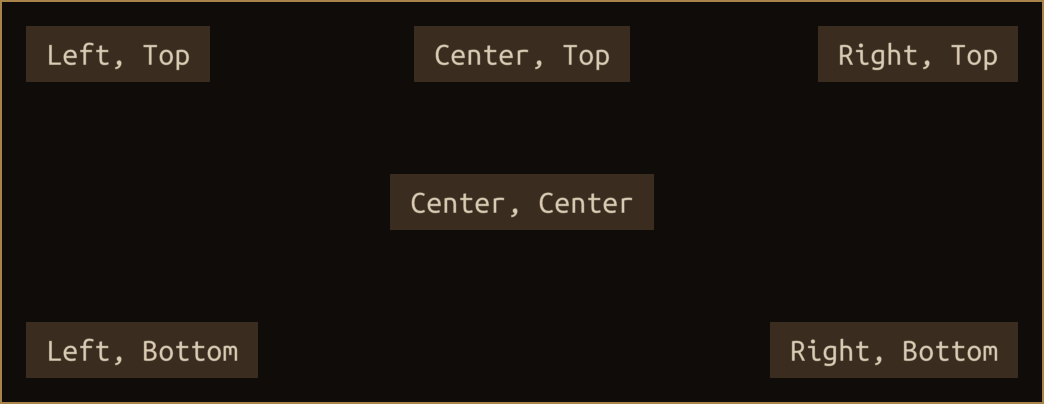
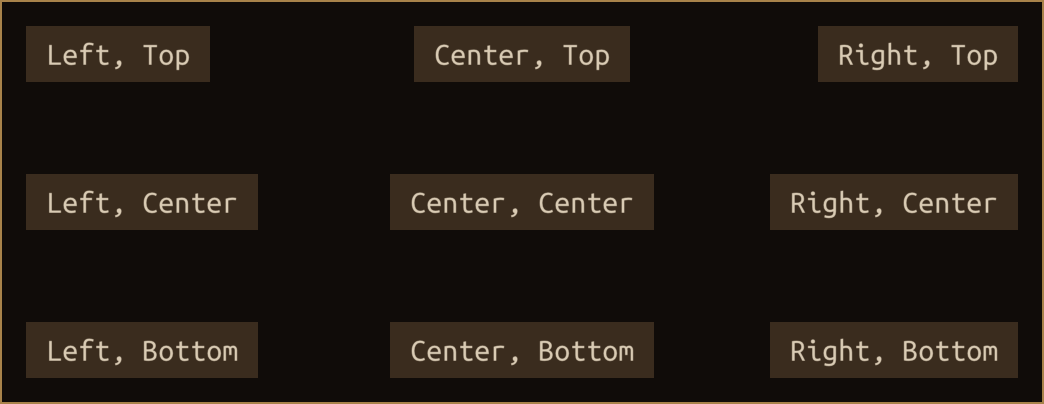
Indent sidebar sections under their page, show all nine alignments
A page's sections and an entry's members start right of their page's
link, so a highlighted one no longer looks a level above it. The
alignment example adds Left, Center; Right, Center; and Center, Bottom.

Changed region(s): [[0.3678, 0.7723, 0.6437, 0.9505], [0.7356, 0.4158, 0.9808, 0.5941], [0.0, 0.4158, 0.2452, 0.5941]]

diff --git a/assets/css/site.css b/assets/css/site.css
@@ -325,6 +325,9 @@ a.card:hover { border-color: var(--line-strong); background: var(--surface-2); c
 /* the sections of a page, its ## headings (see _includes/docs-sections.html), like a book's contents */
 .docs-sections a { padding-top: 4px; padding-bottom: 4px; font-size: .85rem; }
 .docs-sections a[aria-current="location"] { color: var(--gold); border-left-color: var(--gold); background: rgba(233, 194, 122, .06); }
+/* a page's sections and an entry's members start right of their page's link, whose bar follows the caret: a
+   highlighted one never looks a level above its page (the tree's line stays under the caret) */
+.docs-node > ul.docs-sections > li > a, .docs-node > ul.docs-members > li > a { margin-left: 14px; padding-left: 10px; }
 /* a sidebar taller than the window scrolls on its own */
 @media (min-width: 861px) {
   .docs-groups { max-height: calc(100vh - var(--header-h) - 48px); overflow-y: auto; scrollbar-width: thin; scrollbar-color: var(--line-strong) transparent; }

diff --git a/docs/ui.md b/docs/ui.md
@@ -280,7 +280,7 @@ The alignments place an element inside the space its parent gives it: `Left`, `C
 horizontally, `Top`, `Center`, `Bottom` or `Stretch` vertically.
 
 <figure class="shot">
-  <img src="{{ '/assets/img/ui/ui-alignment.png' | relative_url }}" width="522" height="202" alt="Six labels placed at the corners, the top centre and the middle of the screen">
+  <img src="{{ '/assets/img/ui/ui-alignment.png' | relative_url }}" width="522" height="202" alt="Nine labels, one for each pair of Left, Center or Right with Top, Center or Bottom, placed at the corners, the middles of the edges and the middle of the screen">
   <figcaption>Elements aligned within the screen, each with a margin of 12.</figcaption>
 </figure>
 
@@ -302,10 +302,16 @@ ui.AddElementToRoot(Badge("Center, Top",
     HorizontalAlignment.Center, VerticalAlignment.Top));
 ui.AddElementToRoot(Badge("Right, Top",
     HorizontalAlignment.Right, VerticalAlignment.Top));
+ui.AddElementToRoot(Badge("Left, Center",
+    HorizontalAlignment.Left, VerticalAlignment.Center));
 ui.AddElementToRoot(Badge("Center, Center",
     HorizontalAlignment.Center, VerticalAlignment.Center));
+ui.AddElementToRoot(Badge("Right, Center",
+    HorizontalAlignment.Right, VerticalAlignment.Center));
 ui.AddElementToRoot(Badge("Left, Bottom",
     HorizontalAlignment.Left, VerticalAlignment.Bottom));
+ui.AddElementToRoot(Badge("Center, Bottom",
+    HorizontalAlignment.Center, VerticalAlignment.Bottom));
 ui.AddElementToRoot(Badge("Right, Bottom",
     HorizontalAlignment.Right, VerticalAlignment.Bottom));
 ```
